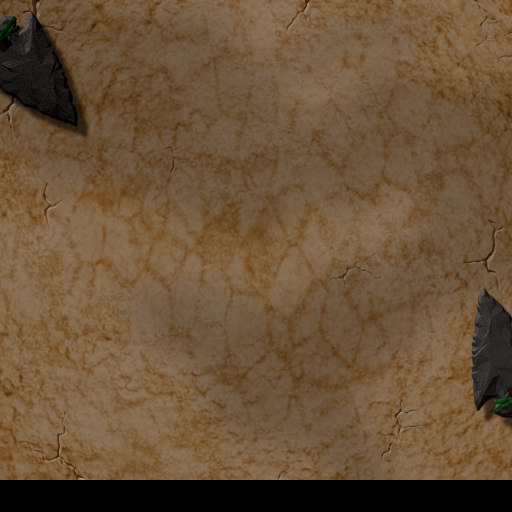
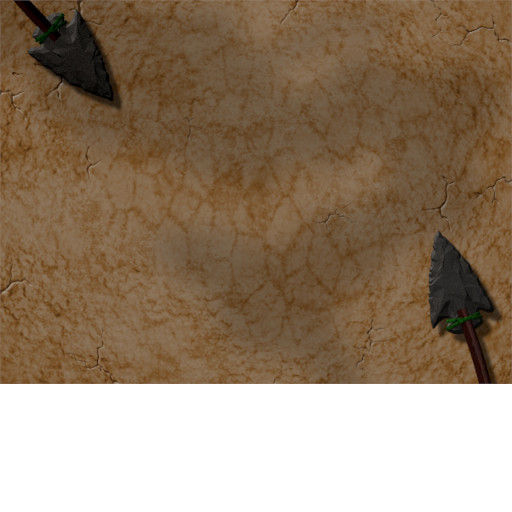
Fixed images on 3ds

diff --git a/Source/Screens/MiscScreens.c b/Source/Screens/MiscScreens.c
@@ -164,9 +164,15 @@ void ShowAgePicture(int age)
 {
 static const char*	names[NUM_AGES] =
 {
+#ifdef __3DS__
+	":Images:Ages:StoneAgeIntro3ds.jpg",
+	":Images:Ages:BronzeAgeIntro3ds.jpg",
+	":Images:Ages:IronAgeIntro3ds.jpg"
+#else
 	":Images:Ages:StoneAgeIntro.jpg",
 	":Images:Ages:BronzeAgeIntro.jpg",
 	":Images:Ages:IronAgeIntro.jpg"
+#endif
 };
 
 	DisplayPicture(names[age], 20);
@@ -296,9 +302,15 @@ FSSpec				spec;
 OGLSetupInputType	viewDef;
 static const char* names[] =
 {
+#ifdef __3DS__
+	":Images:Conquered:StoneAgeConquered3ds.png",
+	":Images:Conquered:BronzeAgeConquered3ds.png",
+	":Images:Conquered:IronAgeConquered3ds.png"
+#else
 	":Images:Conquered:StoneAgeConquered.png",
 	":Images:Conquered:BronzeAgeConquered.png",
 	":Images:Conquered:IronAgeConquered.png"
+#endif
 };
 
 
@@ -505,7 +517,11 @@ OGLSetupInputType	viewDef;
 
 			/* MAKE BACKGROUND PICTURE OBJECT */
 
+#ifdef __3DS__
+	MakeBackgroundPictureObject(":Images:Conquered:GameCompleted3ds.png");
+#else
 	MakeBackgroundPictureObject(":Images:Conquered:GameCompleted.png");
+#endif
 
 
 	LoadASkeleton(SKELETON_TYPE_MALESTANDING);

diff --git a/Source/3D/MetaObjects.c b/Source/3D/MetaObjects.c
@@ -858,10 +858,10 @@ const MOPictureData	*picData = &picObj->objectData;
 #ifdef __3DS__
 	// 3ds pictures are 512x512, so bring back to 4:3 (512x384)
 	glBegin(GL_QUADS);
-	glTexCoord2f(1, 1);	glVertex3f(-1.3334, -1, z);
+	glTexCoord2f(1, 384.0f/512.0f);	glVertex3f(-1, -1, z);
 	glTexCoord2f(1, 0);	glVertex3f( 1, -1, z);
 	glTexCoord2f(0, 0);	glVertex3f( 1, 1, z);
-	glTexCoord2f(0, 1);	glVertex3f(-1.3334,  1, z);
+	glTexCoord2f(0, 384.0f/512.0f);	glVertex3f(-1,  1, z);
 	glEnd();
 #else
 	glBegin(GL_QUADS);
